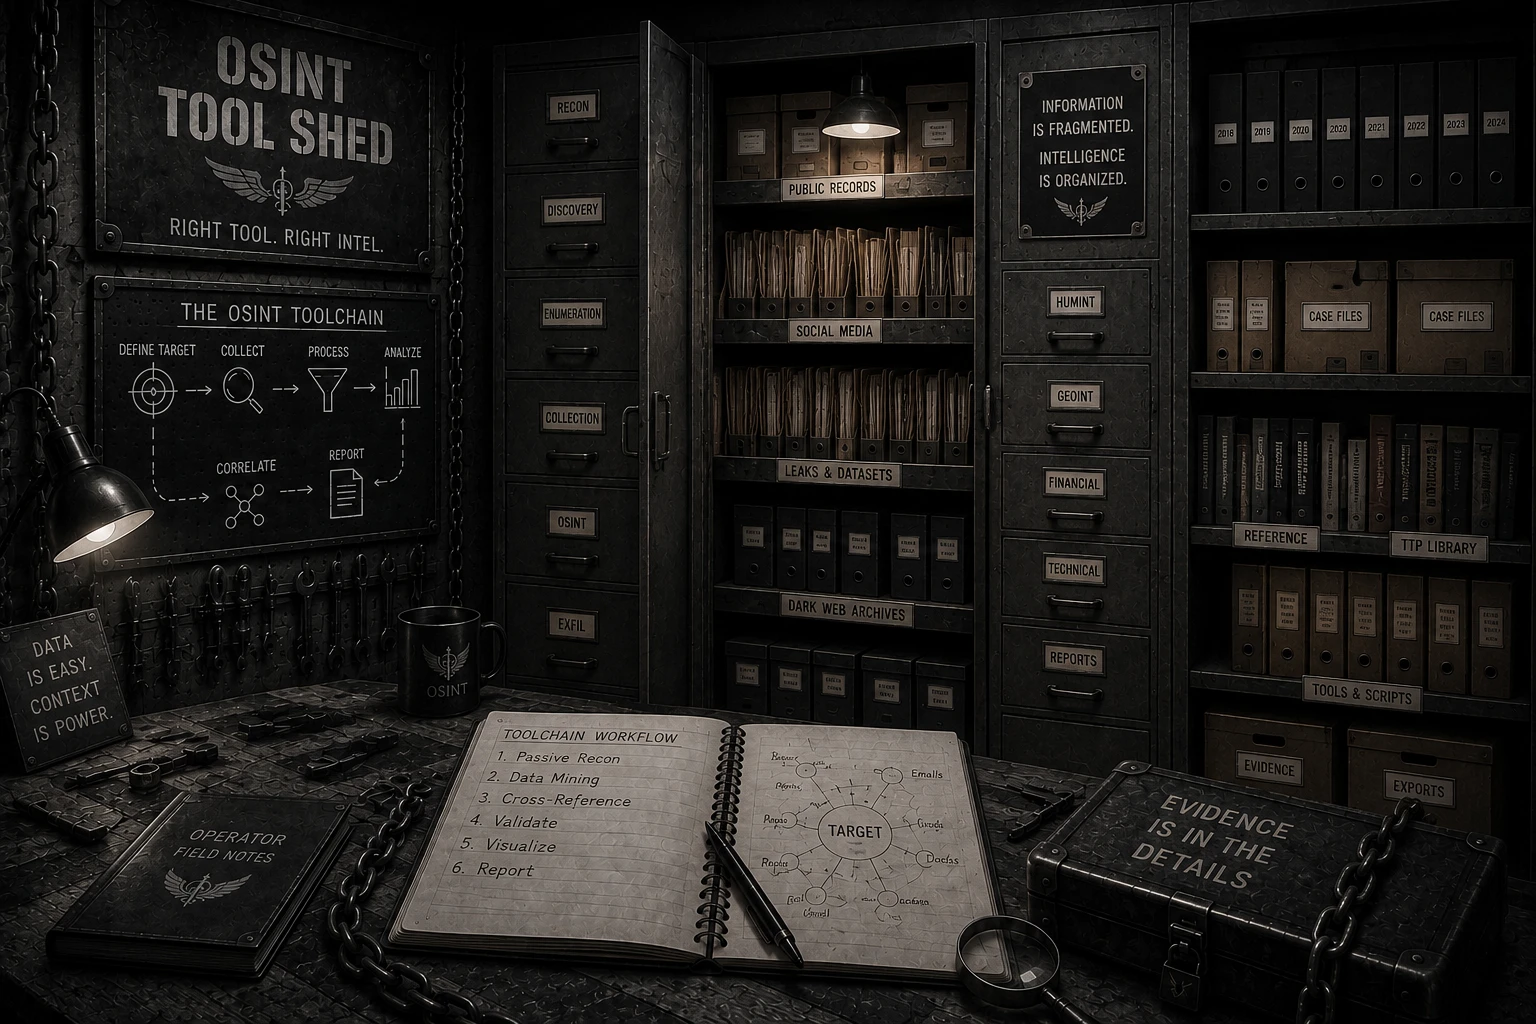
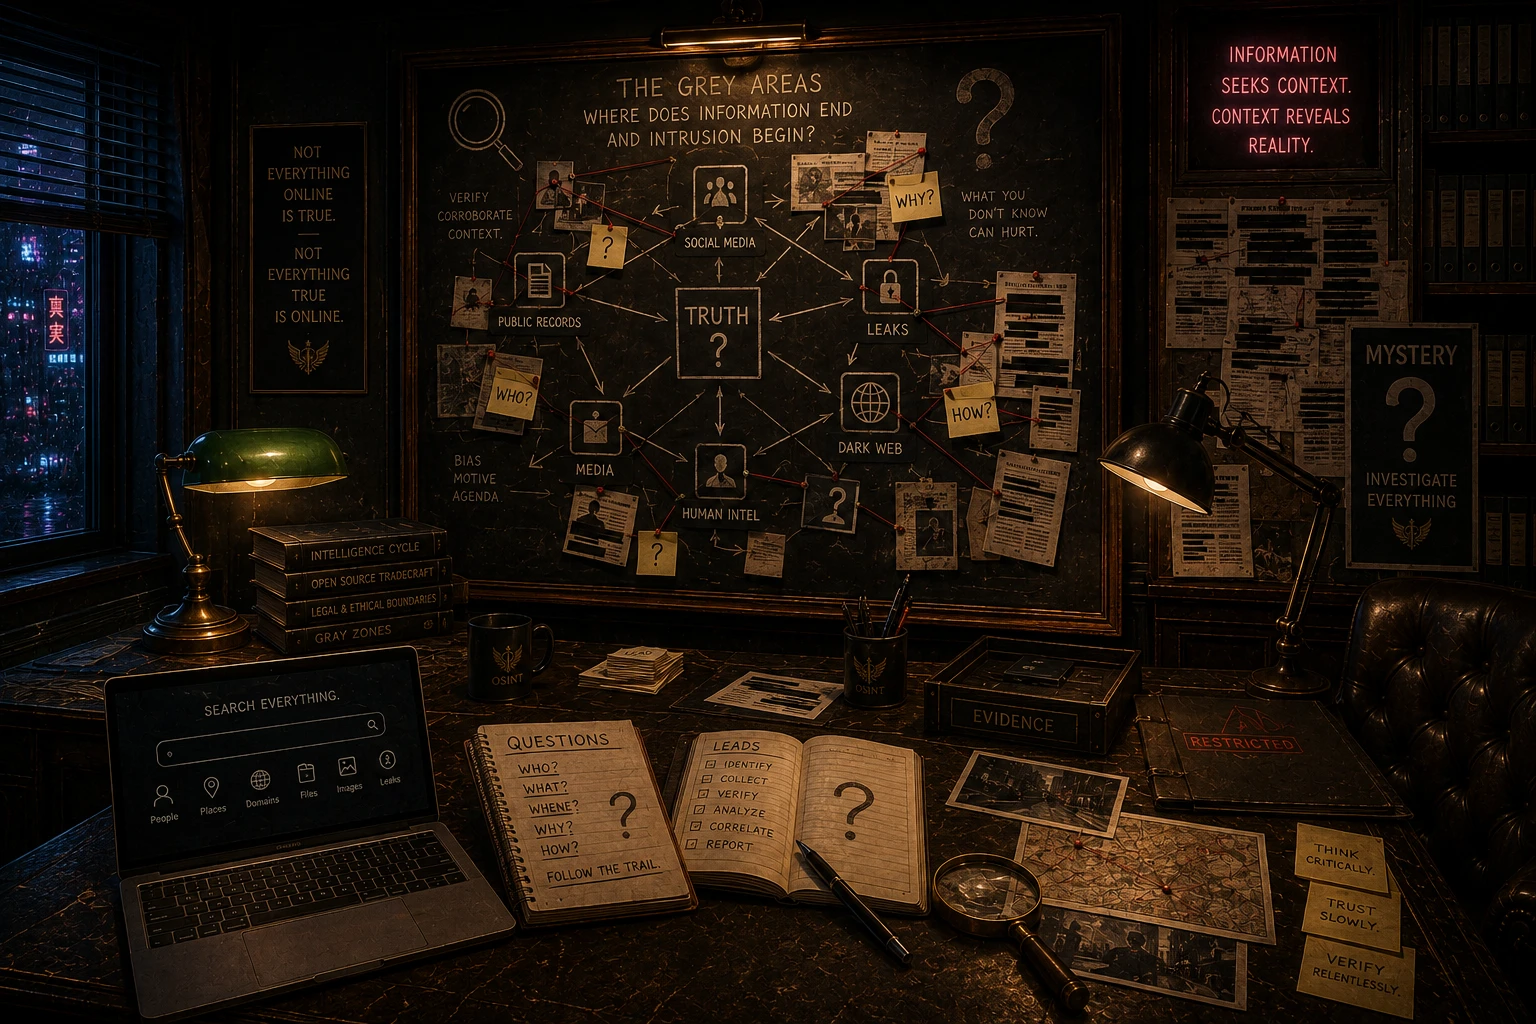
Quality review of all 22 generated images -- real issues found
DECISIONS.md #025. Not just cosmetic:

Mechanical fixes (no judgment call needed):
- GD001's file actually contained Grey Areas content -> remapped to
  GA001. The Tool-Shed-variant that had been under GA001, and DB001's
  "Dark Web Investigations Room" content (matches no Version-1 room),
  moved out to images/_rejected/ (gitignored staging area).
- EN002 rendered "RED TEAM OPS" instead of "HACK METH" (violates
  DECISIONS.md #012) -- resent and re-checked, same issue persists,
  moved to images/_rejected/ again.
- GD001 was resent and placed, but bakes in a full simulated dork
  query + fake result URLs.

Flagged for a product decision, not auto-fixed:
- D003 (Mission Board) bakes in all 22 keys unlocked/labeled instead
  of 9 active + inert placeholders (violates #011 + Scene Bible)
- SG001/FC001 bake in fabricated specifics not in the source deck
  (Creative Bible Sec 4 fidelity/sensitivity concern)
- TC001/ST001/GP001/GD001 (all 4 terminal rooms) bake in full
  simulated tool output, violating #007/SRS FR-18's explicit rule
  against simulating real tools

Asset_Register_v1.0.xlsx and prompts/assets.json updated to reflect
true status. Full punch list in TODO.md.

diff --git a/TODO.md b/TODO.md
@@ -33,10 +33,17 @@
 ## M2 — Prompt library & asset generation
 - [x] Build prompts/ library (style-lock preamble + per-asset prompts) — [prompts/style_lock.md](prompts/style_lock.md), [prompts/assets.json](prompts/assets.json)
 - [x] Sourcing method decided: ChatGPT manual generation for all 22 image assets (DECISIONS.md #020–#023; Gemini/Imagen and Unsplash paths built but unused — left in place, not deleted)
-- [x] 22/22 image-generation assets done → `assets/images/*.webp` (6.8MB total, all status `Draft` pending final review, DECISIONS.md #023)
 - [x] Source 2 CC0 audio loops — done 2026-08-06 (DECISIONS.md #024): `assets/audio/rain.ogg` (freesound.org/s/242889, CC0, 48s) and `assets/audio/ops.ogg` (freesound.org/s/715475, CC0, 1:42)
+- [x] Quality review of all 22 generated images — 2026-08-06 (DECISIONS.md #025). Found real problems, not cosmetic. Mislabeling fixed mechanically; content/policy issues need your call.
+- [x] 20/22 placed in `assets/images/*.webp` (GD001 re-sent and placed 2026-08-06, but flagged — see below)
+- [ ] 2/22 still need regeneration (previous files moved to `images/_rejected/`, Asset Register reverted to "To Generate"):
+  - **DB001** (Mission Debrief) — real content never generated (file was "Dark Web Investigations Room," not Mission Debrief, matches no Version-1 room)
+  - **EN002** (HACK METH Reveal) — resent 2026-08-06, still rendered "RED TEAM OPS" signage, violates DECISIONS.md #012 — re-flagged, moved to `images/_rejected/` again
+- [ ] **Decision needed — GD001 (Google Dorking):** re-sent and placed, but bakes in a fully simulated dork query + 10 fake result URLs — same #007/SRS FR-18 violation as the terminal-room trio below.
+- [ ] **Decision needed — D003 (Mission Board):** bakes in all 22 concept-art keys as fully unlocked/labeled, including "MISSION DEBRIEF" and "CHECK-OUT" as hub entries — violates #011 (locked-placeholder requirement) and the Scene Bible. Regenerate with only 9 active keys + inert locked placeholders, or accept as reference art and rebuild the key state in HTML/CSS at Milestone 3 (labels/lock-state never baked into the image in the first place)?
+- [ ] **Decision needed — SG001 (SignalGate) / FC001 (Fiery Cross Reef):** both bake in fabricated specifics not in the source deck (dramatized "targets confirmed / time to execute" chat text; an invented date/coordinates) — Creative Bible §4 fidelity/sensitivity concern for real, sensitive incidents. Regenerate with less invented specificity, or accept as atmospheric/non-literal?
+- [ ] **Decision needed — TC001 / ST001 / GP001 / GD001 (all 4 terminal rooms):** all bake in full simulated tool output (theHarvester/Sherlock/SpiderFoot text, a SET menu, a populated GoPhish dashboard, a dork query + results) — violates #007/SRS FR-18's explicit "no simulated tool output" rule. Regenerate with idle/blank screens, or crop/edit the existing art to blank the screens before use?
 - [ ] Remaining 13 Asset Register rows (F002, SG002, FC002, EX001, EX002, DD001, UI001-UI003, EE001-EE004) are HTML/SVG/CSS build-time components, not image-generated — deferred to Milestone 3, not a Milestone 2 gap
-- [ ] All 22 `Draft` images pending final review/approval before moving to `Ready`
 
 ## M3 — HTML engine build
 - [ ] Implement schemas as `schemas/*.schema.json` (drafted in Architecture.md §5)

diff --git a/DECISIONS.md b/DECISIONS.md
@@ -162,3 +162,40 @@ no stable direct file URL); Freesound's CDN serves preview files
 directly and its license is genuinely CC0 (matching the Asset
 Register's stated requirement exactly, unlike Pixabay's merely
 similar Content License).
+
+025 Quality review of the 22 generated concept-art images (2026-08-06)
+found real problems, not just cosmetic ones. Mechanical mislabeling
+fixed directly (no creative judgment needed): GD001's file actually
+contained Grey Areas content, remapped to GA001; the file that had
+been under GA001 (a Tool-Shed variant matching no defined room) and
+the files under DB001 ("Dark Web Investigations Room," not Mission
+Debrief) and EN002 (rendered "RED TEAM OPS" signage, violating #012)
+were moved to images/_rejected/ and their Asset Register rows reverted
+to "To Generate." Net: GD001, DB001, EN002 still need real generation;
+19/22 correctly placed.
+
+Content/policy issues found that are NOT auto-fixed, pending a product
+decision (tracked in TODO.md):
+- D003 (Mission Board): bakes in all 22 concept-art keys as fully
+  labeled, unlocked brass keys, including "MISSION DEBRIEF" and
+  "CHECK-OUT" as hub entries -- violates #011 (locked/inert placeholder
+  requirement) and the Scene Bible (those two are linear post-hub
+  scenes, not hub rooms).
+- SG001 (SignalGate): bakes in fabricated, dramatized operational chat
+  content ("Targets confirmed," "Time to execute," "Discussing
+  strikes") not present in the source deck -- violates Creative Bible
+  §4's fidelity/sensitivity rules for a real, sensitive incident.
+- FC001 (Fiery Cross Reef): bakes in a fabricated specific date/
+  timestamp/coordinates not sourced from the deck -- same §4 concern.
+- TC001, ST001, GP001, GD001 (all 4 terminal rooms): all render full,
+  realistic simulated tool output/dashboards (theHarvester/Sherlock/
+  SpiderFoot terminal text, a full SET menu, a populated GoPhish
+  dashboard with fake metrics, a dork query + 10 fake result URLs)
+  baked into the image -- violates #007/SRS FR-18's explicit "must not
+  simulate real tool output" rule, which exists specifically so the web
+  experience doesn't undercut the real live demo. (GD001 was re-sent
+  2026-08-06 after the mislabeling fix and has this same issue.)
+
+EN002 was re-sent 2026-08-06 and still rendered "RED TEAM OPS" instead
+of "HACK METH" -- moved to images/_rejected/ again, still needs
+regeneration with corrected signage text.
